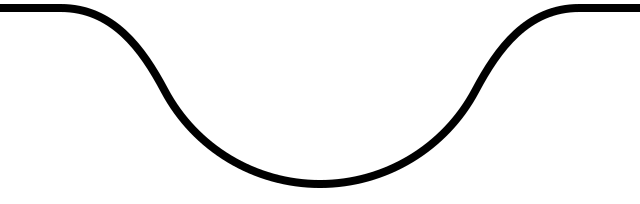
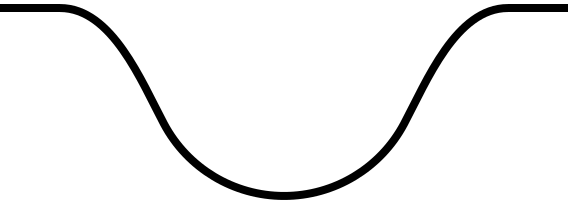
Smaller, lower bottom-bar circle (52 instead of 70, rises 14 instead of 36) so it clears the pages and filter arrows
Claude-Session: https://claude.ai/code/session_01X56ddDHNWUKJn2BBuoFg9X

diff --git a/App.tsx b/App.tsx
@@ -3772,9 +3772,9 @@ function Taskbar({tab, onTab, newCount}: {tab: Tab; onTab: (t: Tab) => void; new
                 {/* the open tab sits in a dip cut into the bar, like a call-to-action button */}
                 {/* one smooth curve: flat bar, soft shoulder, round dip around the button, soft shoulder */}
                 <Image source={DIP_IMG} style={st.dip} resizeMode="stretch" />
-                {CAT ? <CatImg name="ears" w={px(40)} style={{position: 'absolute', top: -px(36) - px(2), alignSelf: 'center'}} /> : null}
+                {CAT ? <CatImg name="ears" w={px(32)} style={{position: 'absolute', top: -px(14) - px(2), alignSelf: 'center'}} /> : null}
                 <View style={st.taskCta}>
-                  <Icon name={icon} size={px(32)} />
+                  <Icon name={icon} size={px(26)} />
                   {badge}
                 </View>
                 <Text style={[st.taskLabel, st.taskLabelOn]} numberOfLines={1}>{short[t]}</Text>
@@ -5957,8 +5957,8 @@ const st = StyleSheet.create({
   infoValue: {fontSize: px(17), lineHeight: px(24), color: BLACK},
   taskbar: {height: TASK_H, flexDirection: 'row', borderTopWidth: px(2), borderColor: BLACK, backgroundColor: '#ffffff', overflow: 'visible'},
   // a half circle cut down into the bar (only its lower half shows), with the button sitting in it
-  dip: {position: 'absolute', top: -px(3), alignSelf: 'center', width: px(160), height: px(51)},
-  taskCta: {position: 'absolute', top: -px(36), alignSelf: 'center', width: px(70), height: px(70), borderRadius: px(35), borderWidth: px(5), borderColor: BLACK, backgroundColor: '#ffffff', alignItems: 'center', justifyContent: 'center'},
+  dip: {position: 'absolute', top: -px(3), alignSelf: 'center', width: px(142), height: px(51)}, // tools/logo/taskbar-dip.svg
+  taskCta: {position: 'absolute', top: -px(14), alignSelf: 'center', width: px(52), height: px(52), borderRadius: px(26), borderWidth: px(4), borderColor: BLACK, backgroundColor: '#ffffff', alignItems: 'center', justifyContent: 'center'},
   taskLabel: {position: 'absolute', bottom: px(6), fontSize: px(14), color: '#555555'},
   taskLabelOn: {fontWeight: 'bold', fontSize: px(15), color: BLACK},
   task: {flex: 1, alignItems: 'center', justifyContent: 'flex-start'},
